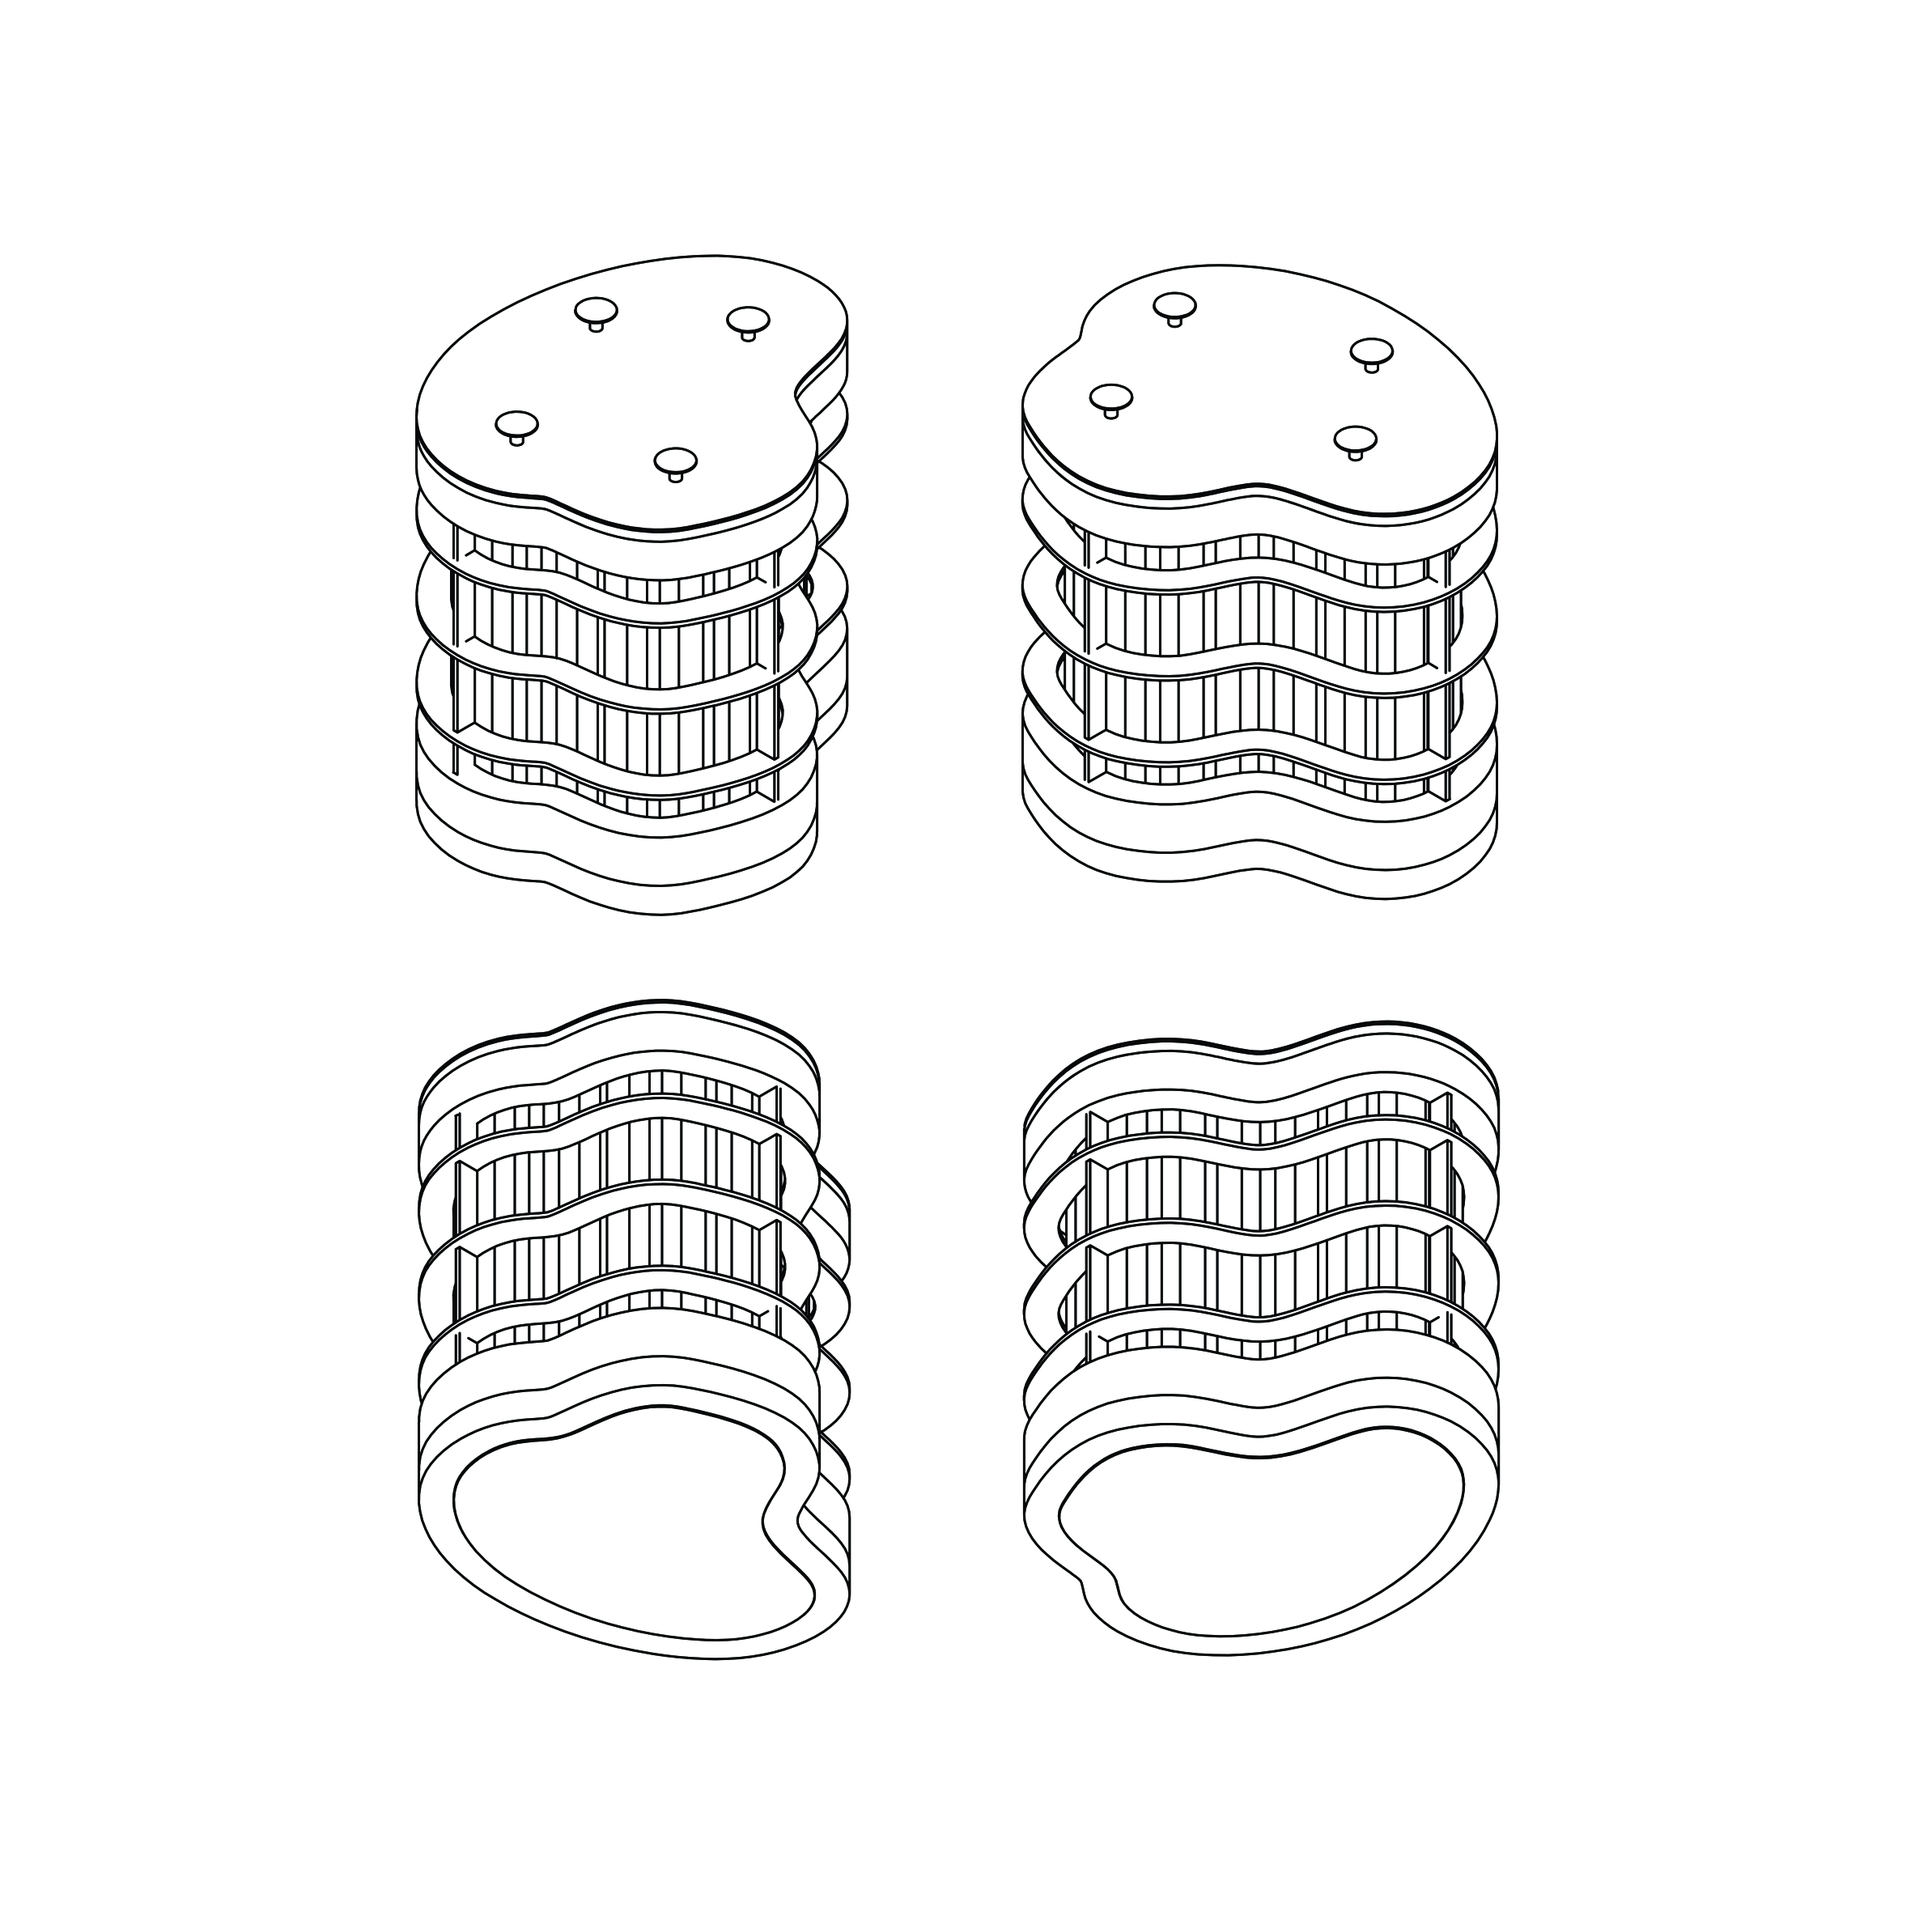
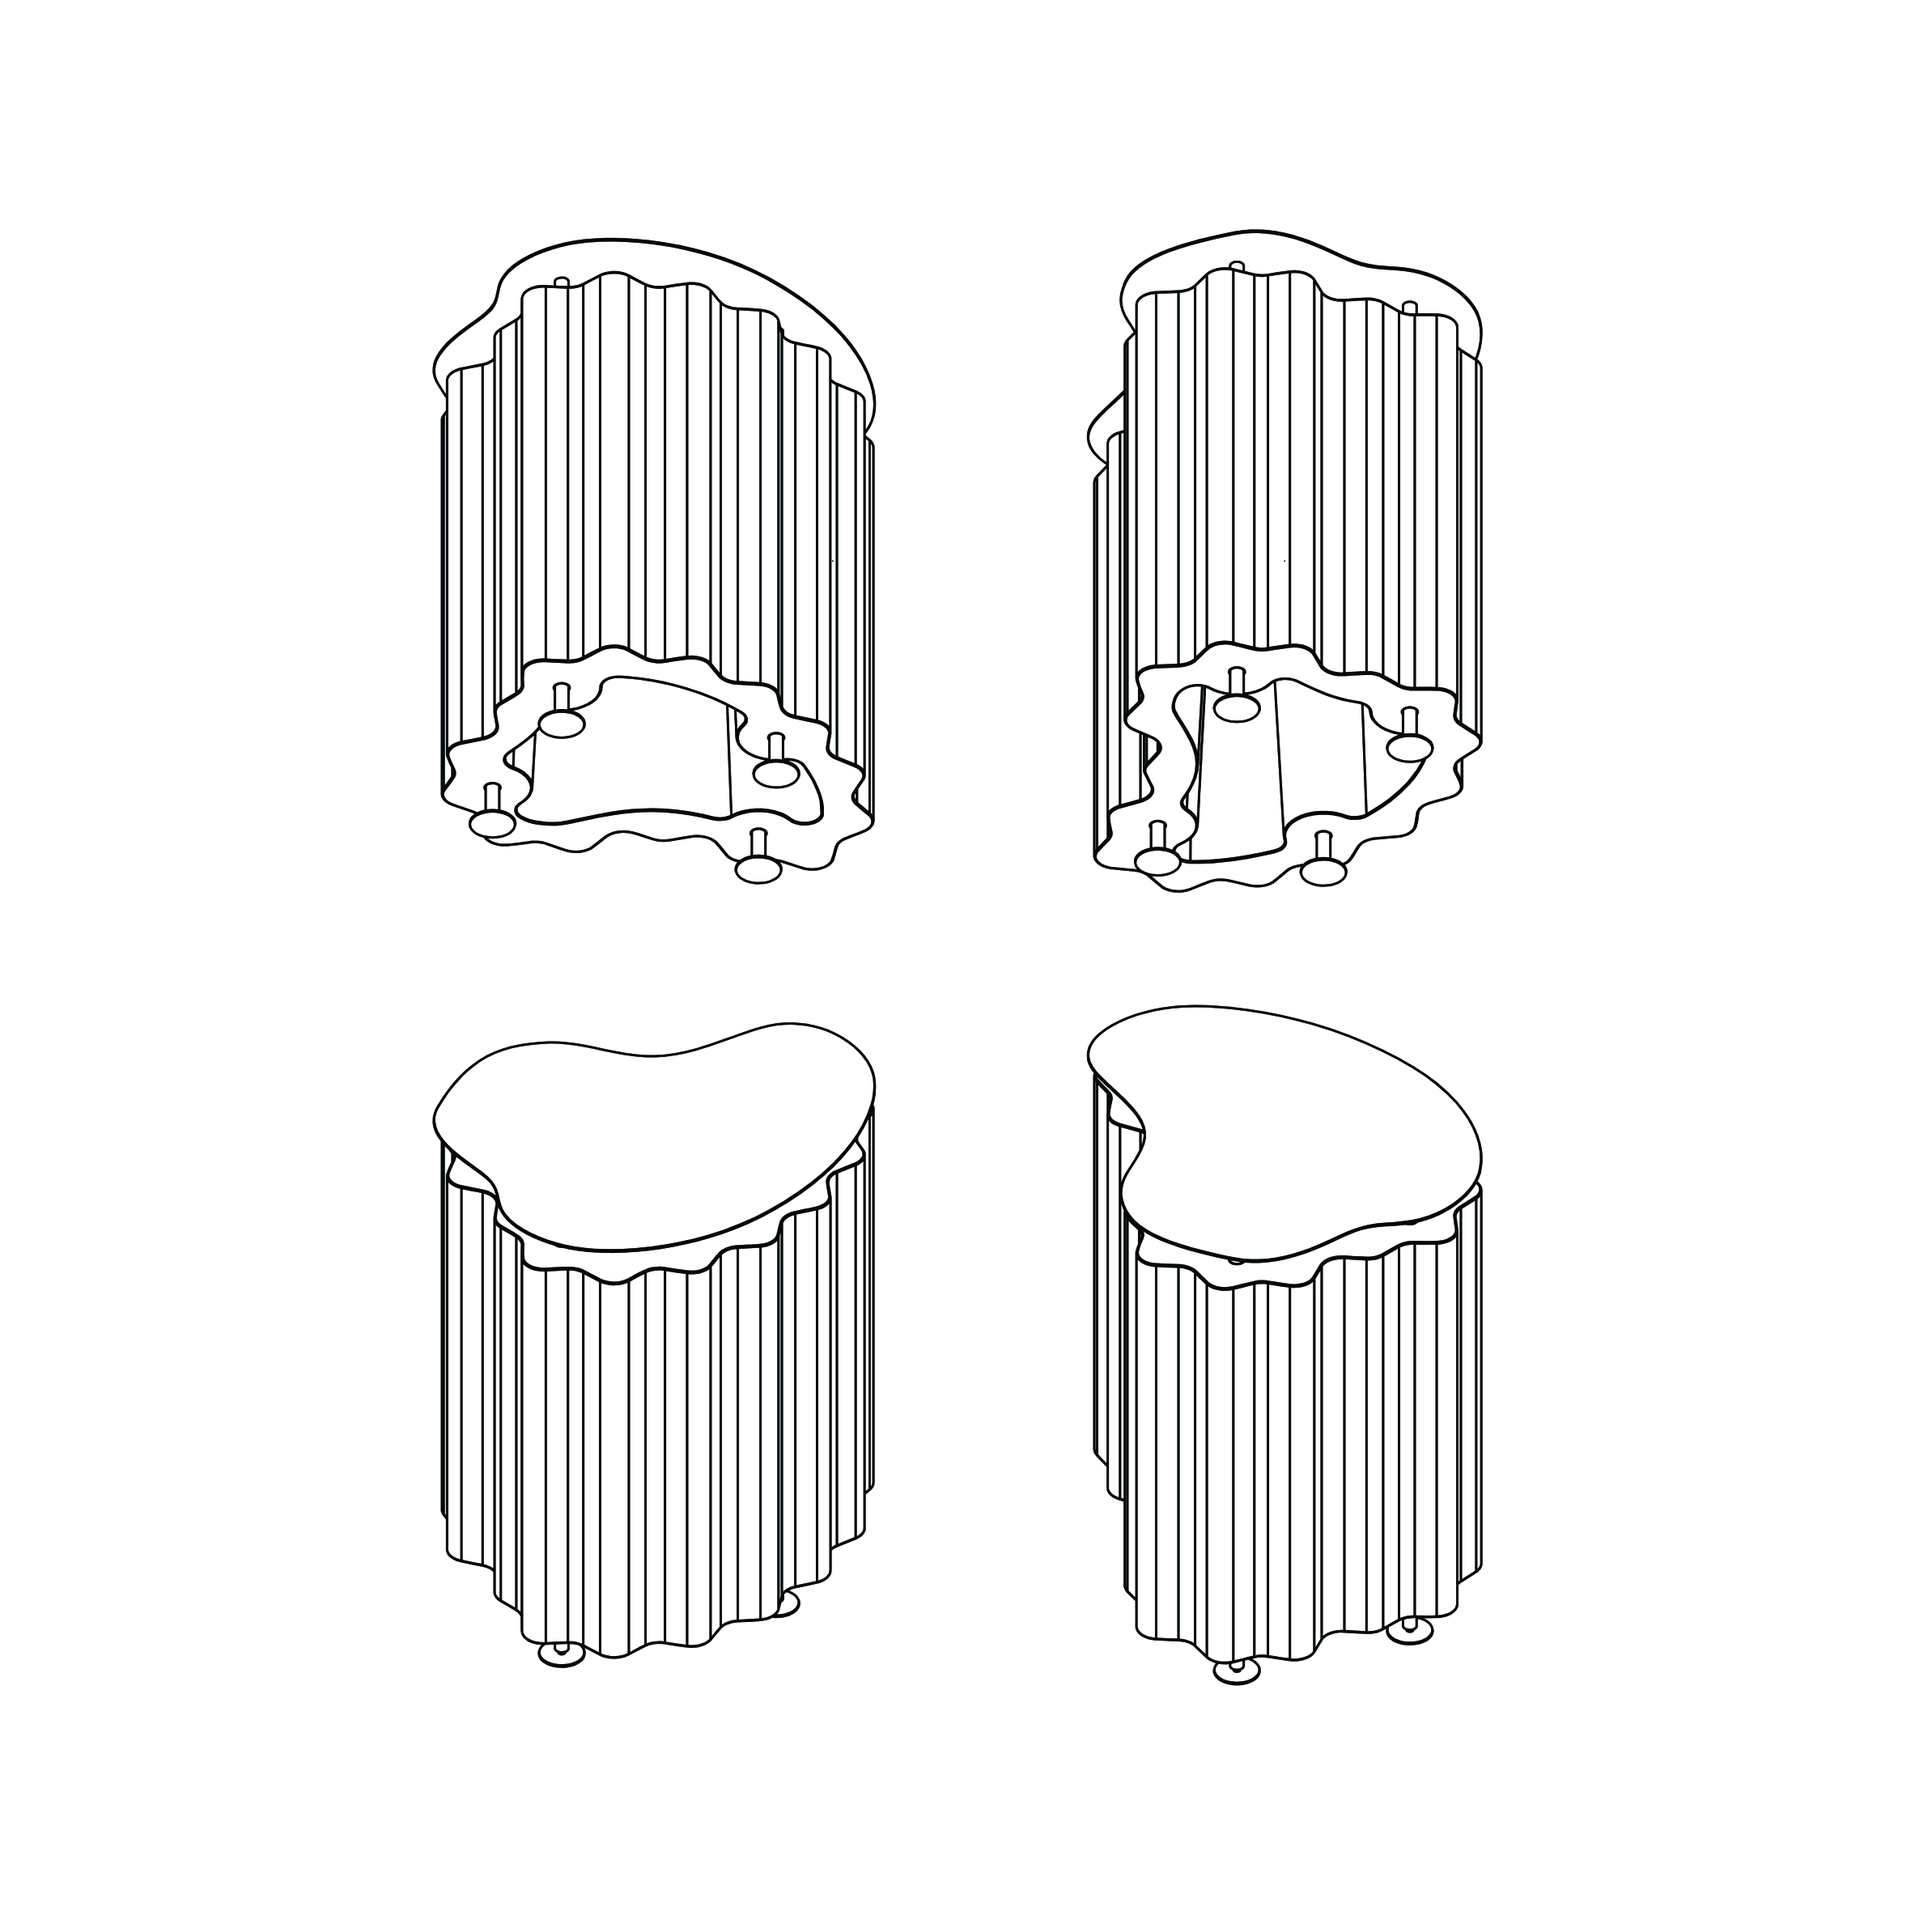
portada grid updated:

diff --git a/src/data/projects-showcase.ts b/src/data/projects-showcase.ts
@@ -25,7 +25,7 @@ export const showcaseProjects: ShowcaseProject[] = [
         title: "La casa de al lado",
         category: "Residencial",
         year: "2024",
-        homeGrid: "/assets/img/inner-project/casa-al-lado/grid.jpg",
+        homeGrid: "/assets/img/inner-project/casa-al-lado/grid.png",
         showOnHome: true,
         showInGrid: true,
         subtitle: "[ Arquitectura ]",
@@ -73,7 +73,7 @@ export const showcaseProjects: ShowcaseProject[] = [
         title: "Refugio para el Viento.",
         category: "Residencial",
         year: "2022",
-        homeGrid: "/assets/img/inner-project/refugio-para-el-viento/grid.jpg",
+        homeGrid: "/assets/img/inner-project/refugio-para-el-viento/grid.png",
         showOnHome: false,
         showInGrid: true,
         subtitle: "[ Arquitectura ]",
@@ -98,7 +98,7 @@ export const showcaseProjects: ShowcaseProject[] = [
         title: "Unidades VB",
         category: "Residencial",
         year: "2024",
-        homeGrid: "/assets/img/inner-project/unidades-vb/grid.jpg",
+        homeGrid: "/assets/img/inner-project/unidades-vb/grid.png",
         showOnHome: false,
         showInGrid: true,
         subtitle: "[ Arquitectura ]",
@@ -122,7 +122,7 @@ export const showcaseProjects: ShowcaseProject[] = [
         title: "Habitar la Barranca",
         category: "Residencial",
         year: "2024",
-        homeGrid: "/assets/img/inner-project/la-barranca/grid.jpg",
+        homeGrid: "/assets/img/inner-project/la-barranca/grid.png",
         showOnHome: false,
         showInGrid: true,
         subtitle: "[ Arquitectura ]",
@@ -149,7 +149,7 @@ export const showcaseProjects: ShowcaseProject[] = [
         title: "Bros Comedor",
         category: "Comercial",
         year: "2023",
-        homeGrid: "/assets/img/inner-project/bros-comedor/grid.jpg",
+        homeGrid: "/assets/img/inner-project/bros-comedor/grid.png",
         showOnHome: false,
         showInGrid: true,
         subtitle: "[ Arquitectura ]",
@@ -172,7 +172,7 @@ export const showcaseProjects: ShowcaseProject[] = [
         title: "Café Laprida",
         category: "Comercial",
         year: "2024",
-        homeGrid: "/assets/img/inner-project/cafe-laprida/grid.jpg",
+        homeGrid: "/assets/img/inner-project/cafe-laprida/grid.png",
         showOnHome: false,
         showInGrid: true,
         subtitle: "[ Arquitectura ]",
@@ -195,7 +195,7 @@ export const showcaseProjects: ShowcaseProject[] = [
         title: "The Fav",
         category: "Comercial",
         year: "2023",
-        homeGrid: "/assets/img/inner-project/the-fav/grid.jpg",
+        homeGrid: "/assets/img/inner-project/the-fav/grid.png",
         showOnHome: false,
         showInGrid: true,
         subtitle: "[ Arquitectura ]",
@@ -221,7 +221,7 @@ export const showcaseProjects: ShowcaseProject[] = [
         title: "La otra forma",
         category: "Experimentaciones",
         year: "2024",
-        homeGrid: "/assets/img/inner-project/la-otra-forma/grid.jpg",
+        homeGrid: "/assets/img/inner-project/la-otra-forma/grid.jpeg",
         showOnHome: true,
         showInGrid: true,
         subtitle: "[ Arquitectura y Arte ]",
@@ -275,7 +275,7 @@ export const showcaseProjects: ShowcaseProject[] = [
         title: "Casa andar",
         category: "Residencial",
         year: "2024",
-        homeGrid: "/assets/img/inner-project/casa-andar/draw-1.png",
+        homeGrid: "/assets/img/inner-project/casa-andar/grid.png",
         showOnHome: true,
         showInGrid: true,
         subtitle: "[ Arquitectura ]",
@@ -300,7 +300,7 @@ export const showcaseProjects: ShowcaseProject[] = [
         title: "Edificio Recova",
         category: "Residencial",
         year: "2024",
-        homeGrid: "/assets/img/inner-project/edificio-recova/grid.jpg",
+        homeGrid: "/assets/img/inner-project/edificio-recova/grid.png",
         showOnHome: true,
         showInGrid: true,
         subtitle: "[ Arquitectura ]",
@@ -328,7 +328,7 @@ export const showcaseProjects: ShowcaseProject[] = [
         title: "Remodelación AR",
         category: "Residencial",
         year: "2024",
-        homeGrid: "/assets/img/inner-project/remodelacion-ar/detail-8.jpg",
+        homeGrid: "/assets/img/inner-project/remodelacion-ar/grid.png",
         showOnHome: false,
         showInGrid: true,
         subtitle: "[ Arquitectura ]",
@@ -356,7 +356,7 @@ export const showcaseProjects: ShowcaseProject[] = [
         title: "Atelier Artista",
         category: "Residencial",
         year: "2021",
-        homeGrid: "/assets/img/inner-project/atelier-artista/detail-3.png",
+        homeGrid: "/assets/img/inner-project/atelier-artista/grid.png",
         showOnHome: false,
         showInGrid: true,
         subtitle: "[ Arquitectura ]",
@@ -382,7 +382,7 @@ export const showcaseProjects: ShowcaseProject[] = [
         title: "Patio con casa",
         category: "Residencial",
         year: "2021",
-        homeGrid: "/assets/img/inner-project/patio-con-casa/detail-5.jpg",
+        homeGrid: "/assets/img/inner-project/patio-con-casa/grid.png",
         showOnHome: false,
         showInGrid: true,
         subtitle: "[ Arquitectura ]",
@@ -410,7 +410,7 @@ export const showcaseProjects: ShowcaseProject[] = [
         title: "Molt",
         category: "Comercial",
         year: "2023",
-        homeGrid: "/assets/img/inner-project/molt/grid.jpg",
+        homeGrid: "/assets/img/inner-project/molt/grid.png",
         showOnHome: false,
         showInGrid: true,
         subtitle: "[ Arquitectura ]",
@@ -438,7 +438,7 @@ export const showcaseProjects: ShowcaseProject[] = [
         title: "Caffè del Popolo",
         category: "Comercial",
         year: "2023",
-        homeGrid: "/assets/img/inner-project/cafe-popolo/detail-7.jpg",
+        homeGrid: "/assets/img/inner-project/cafe-popolo/grid.png",
         showOnHome: false,
         showInGrid: true,
         subtitle: "[ Arquitectura ]",
@@ -466,7 +466,7 @@ export const showcaseProjects: ShowcaseProject[] = [
         title: "Tregua",
         category: "Comercial",
         year: "2023",
-        homeGrid: "/assets/img/inner-project/tregua/grid.jpg",
+        homeGrid: "/assets/img/inner-project/tregua/grid.png",
         showOnHome: false,
         showInGrid: true,
         subtitle: "[ Arquitectura ]",
@@ -493,7 +493,7 @@ export const showcaseProjects: ShowcaseProject[] = [
         title: "La Macarena",
         category: "Concursos",
         year: "2023",
-        homeGrid: "/assets/img/inner-project/la-macarena/grid.jpg",
+        homeGrid: "/assets/img/inner-project/la-macarena/grid.png",
         showOnHome: false,
         showInGrid: true,
         subtitle: "[ Arquitectura ]",
